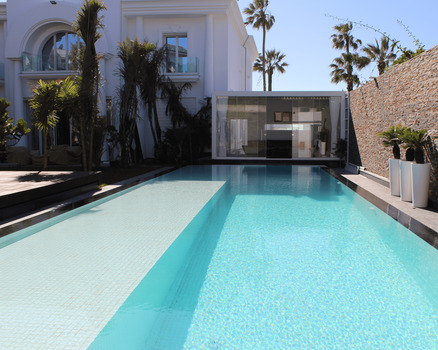
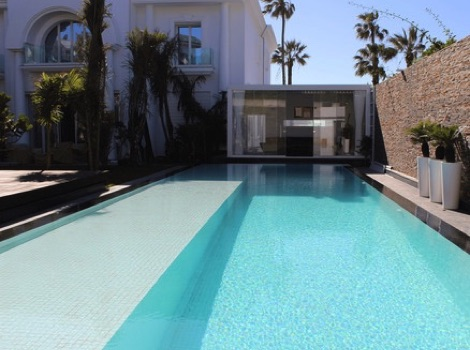
slider images resizing

diff --git a/_includes/footer.html b/_includes/footer.html
@@ -97,7 +97,6 @@
           <ul>
             <li><a href="#apropos">A propos</a></li>
             <li><a href="#realisation">Réalisation</a></li>
-            <li><a href="#galerie">Galerie</a></li>
             <li><a href="#references">Références</a></li>
             <li><a href="#contact">Contact</a></li>
           </ul>
